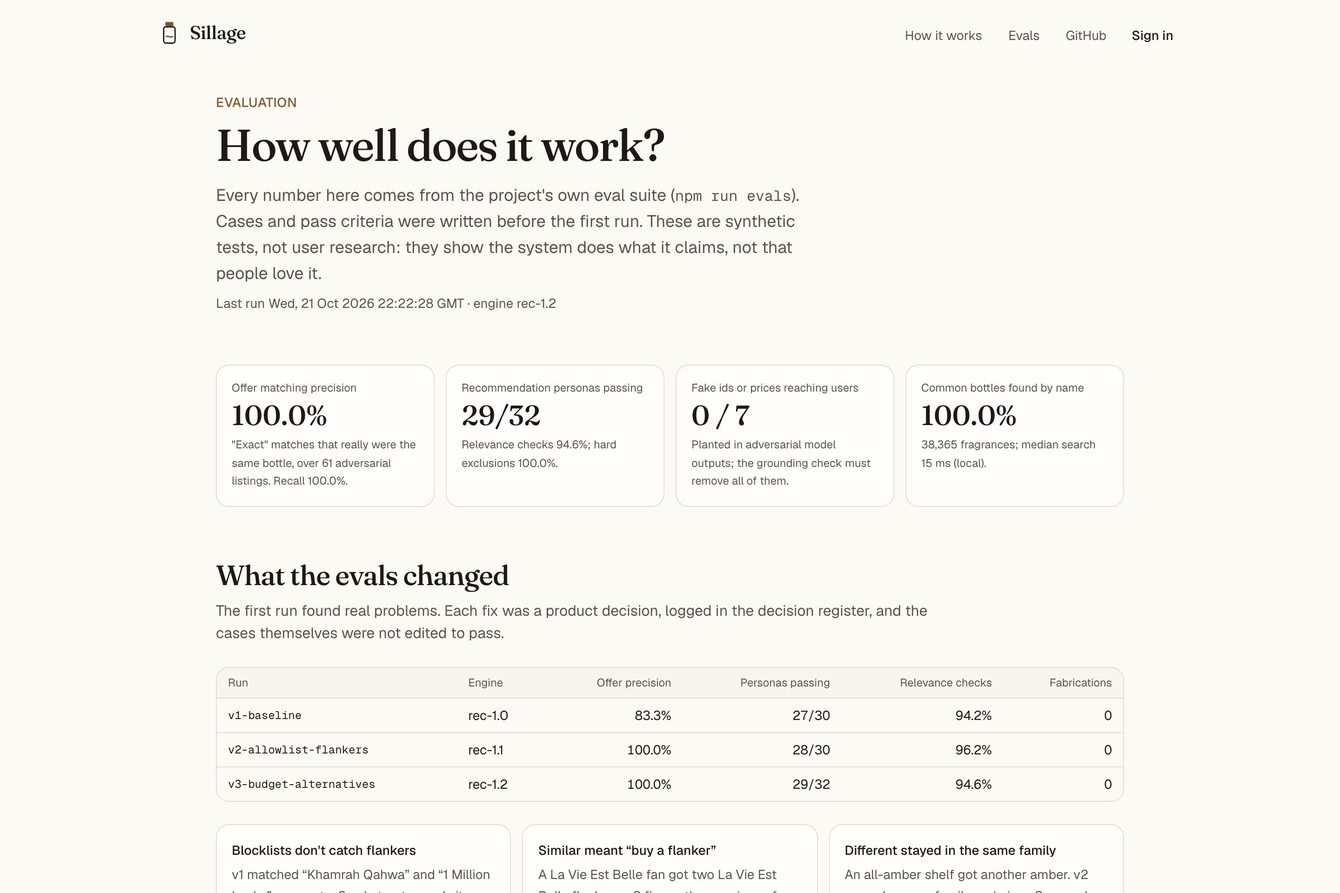
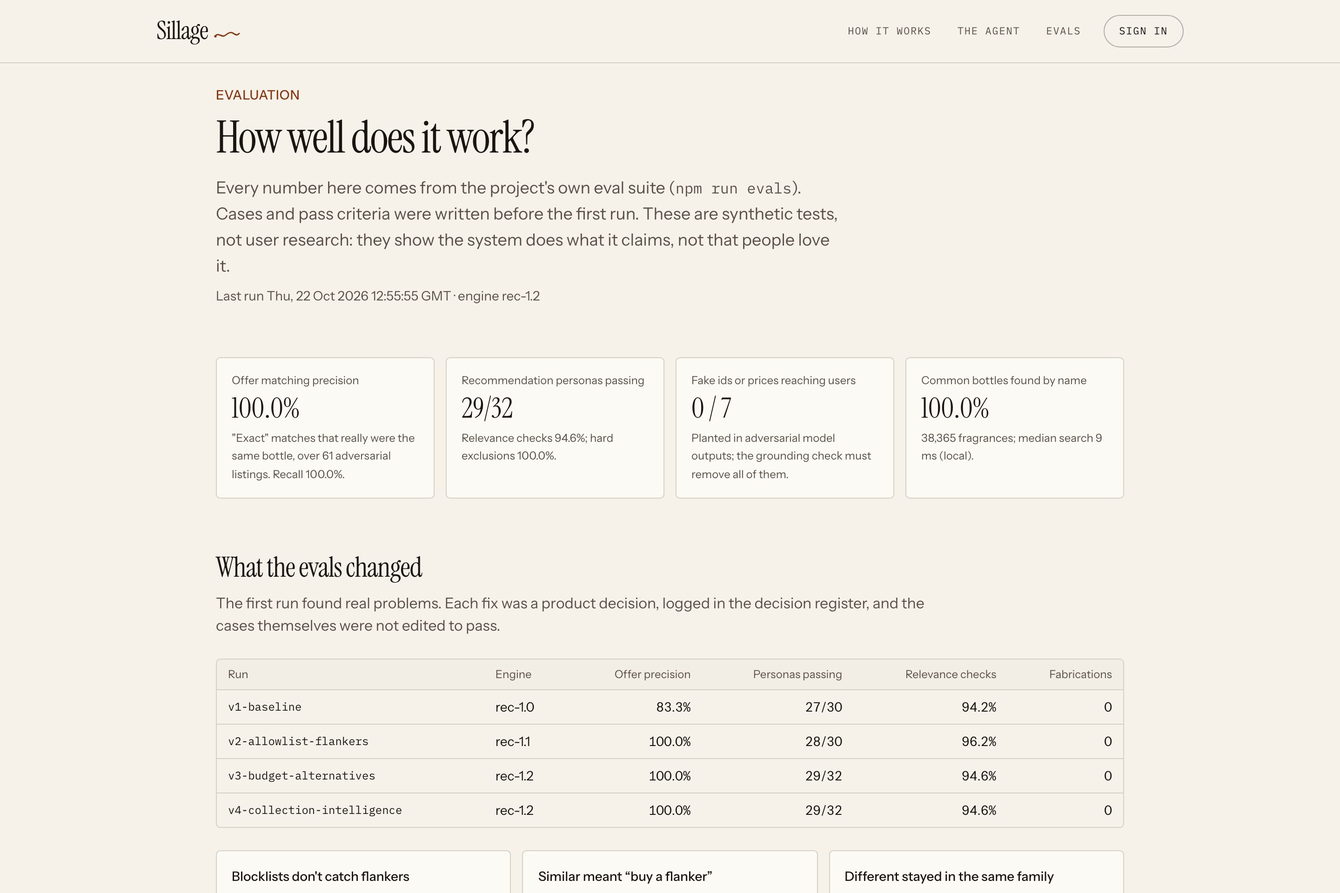
Docs for Collection Intelligence and the redesign; refreshed screenshots
README, case study, decisions DEC-34..45 (PRD 08 §16 resolved), traceability CS/DS/SL, build log, deploy notes.

diff --git a/app/page.tsx b/app/page.tsx
@@ -173,7 +173,7 @@ export default async function Home({ searchParams }: PageProps<"/">) {
                 <Perm title="Never" items={["Picks or ranks on its own", "Cites what no tool returned", "Quotes an unverified price", "Buys anything"]} />
               </dl>
               <p className="mt-6 text-sm text-ink-foreground/60">
-                One agent, eight typed tools, at most six steps per answer. No model configured? It falls back to a rule-based mode that uses the same engine and says so.{" "}
+                One agent, ten typed tools, at most six steps per answer. No model configured? It falls back to a rule-based mode that uses the same engine and says so.{" "}
                 <Link href="/how-it-works#advisor" className="underline underline-offset-4 hover:text-ink-foreground">
                   The full design
                 </Link>

diff --git a/README.md b/README.md
@@ -1,11 +1,11 @@
 # Sillage
 
-**Know your shelf. Find your next bottle.** A fragrance collection manager with a grounded AI advisor: it maps what you own, explains your taste, recommends what to try next with reasons and caveats, and checks prices for the exact bottle.
+**Know your shelf. Wear it better. Buy the next bottle for a reason.** A fragrance collection manager with a grounded AI agent: it maps what you own, scores how well the collection covers your life, picks what to wear today, predicts how two bottles might layer, recommends what to try next with reasons and caveats, and checks prices for the exact bottle.
 
 ### ▶ [Try the live demo](https://sillage-rosy.vercel.app)
-Click **"Try the live demo, no sign-up"** and you get a private sample collection: six bottles, a wishlist item and a saved preference. The walkthrough takes about two minutes, and the sandbox deletes itself after 24 hours.
+Click **"Open a sample shelf"** (no sign-up) and you get a private sample collection: six bottles, a wishlist item, a saved preference and two layering experiments. The walkthrough takes about two minutes, and the sandbox deletes itself after 24 hours.
 
-![Discover: ranked, explained recommendations](docs/images/discover.jpg)
+![The landing page: a live catalog search and a shelf of real bottles](docs/images/landing.jpg)
 
 ---
 
@@ -15,33 +15,61 @@ Collectors with a dozen bottles still buy the wrong next one: a fifth fresh blue
 
 Sillage's bet: **recommendations get far more relevant when they start from what you own and what you've said you like, and they're only trustworthy when every claim traces back to data.** That's a hypothesis, not a finding. I haven't interviewed users yet; the [case study](docs/product/CASE-STUDY.md) says so plainly.
 
+**The value, in one line per user moment:**
+
+| Moment | Without Sillage | With Sillage |
+|---|---|---|
+| "Should I buy this?" | Hype, a video review, a guess | The score impact on *your* shelf: what it adds, what it repeats |
+| "What do I wear today?" | The same bottle again | A ranked pick from bottles you own, for the occasion and the weather, with reasons |
+| "Would these two layer?" | Spray and hope | A labelled prediction from accord rules, then your own logged result |
+| "Where do I buy it?" | Five tabs, a tester posing as new | Exact-variant offers only, with what was hidden and why |
+
 ## What it does
 
 | | |
 |---|---|
-| **1. Your shelf, understood.** Add bottles from ~38,000 fragrances (typos are fine). The dashboard shows your family mix, which seasons and times of day you can cover, and your "signature" accords, weighted by how much you like each bottle. | **2. Three ways to discover.** *Similar* (more of what you love), *Different* (a new direction that still fits), *Fill gaps* (what your shelf is missing). Every pick shows why, what's uncertain, and a score breakdown. |
-| ![Dashboard](docs/images/dashboard.jpg) | ![Fragrance detail](docs/images/detail.jpg) |
-| **3. An advisor that can't make things up.** Ask in plain English. A Claude agent reads your collection, runs the same engine, and explains. Every answer shows its tool calls, cost and a grounding check. | **4. Prices for the exact bottle.** Pick concentration and size. Testers, flankers, wrong sizes and gift sets are rejected, and the page says what was hidden and why. |
+| **1. Your shelf, understood.** Add bottles from ~38,000 fragrances (typos are fine). The shelf shows your bottles, your family mix, which seasons and times of day you can cover, and your "signature" accords, weighted by how much you like each bottle. | **2. Collection Score.** A 0–100 score across five explained dimensions (season, occasion, versatility, diversity, redundancy) with strengths, gaps and a link to fix each gap. Missing data lowers confidence instead of being scored as zero. |
+| ![Shelf](docs/images/shelf.jpg) | ![Collection Score](docs/images/score.jpg) |
+| **3. "What would it change?"** Preview any fragrance against your shelf before buying: Now → With it, per-dimension deltas, and the bottle it overlaps most. A near-copy of something you own is flagged as a duplicate. | **4. Today.** Tell it the occasion, time of day and weather (or share local weather once, never stored). It ranks only bottles you own, explains the pick, and learns from "Wore this" and "Not for me", within bounds. |
+| ![Score simulator](docs/images/simulator.jpg) | ![Daily Scent Selector](docs/images/today.jpg) |
+| **5. Scent Lab.** Pair two bottles you own. Sillage predicts the blend's character, what might work and what might clash, from an editable accord ruleset. It's labelled experimental, never "high confidence", and your own logged wears nudge future predictions. | **6. Three ways to discover.** *Similar*, *Different*, *Fill gaps*. Every pick shows why, what's uncertain, and a score breakdown, plus a link to its score impact. |
+| ![Scent Lab](docs/images/lab.jpg) | ![Discover](docs/images/discover.jpg) |
+| **7. An advisor agent that can't make things up.** Ask in plain English. A Claude agent plans, calls Sillage's own tools, and explains. Every answer shows its tool calls, cost and a grounding check. | **8. Prices for the exact bottle.** Pick concentration and size. Testers, flankers, wrong sizes and gift sets are rejected, and the page says what was hidden and why. |
 | ![Advisor with trace](docs/images/advisor.jpg) | ![Variant-matched offers](docs/images/offers.jpg) |
 
-## The AI design (the part I'd talk about in an interview)
+## The agent (the part I'd talk about in an interview)
 
-- **Deterministic ranking, AI explanation.** A tested engine scores candidates on taste fit, the mode's goal, budget, season/time of day and performance, and emits reason codes and caveats. The model can't add candidates or change scores.
+![The agent walkthrough on the landing page](docs/images/landing-agent.jpg)
+
+**Why an agent at all.** Some questions take several dependent steps: "a woody winter scent under $150 that isn't like anything I own" means reading the shelf, choosing *Different* mode with a season and budget, running the engine, inspecting the best pick, maybe pricing it, then explaining. A single prompt can't do that reliably; a fixed pipeline can't handle the variety of questions. **Why only one agent.** The job has one actor and one context. Multi-agent orchestration would add cost, latency and failure modes without adding capability.
+
+**What it can do: 10 typed tools, split by permission.**
+
+| Reads (runs on its own) | Proposes (you confirm with a click) | Never |
+|---|---|---|
+| `get_user_profile`, `get_owned_fragrances`, `search_catalog`, `get_fragrance_details`, `recommend_candidates`, `find_offers`, `get_collection_score`, `pick_for_today` | `propose_add_to_wishlist`, `propose_preference_update` | Ranks on its own, cites what no tool returned, quotes an unverified price, buys anything, writes without a click |
+
+- **Deterministic ranking, AI explanation.** The engines (recommendations `rec-1.2`, score `score-1.0`, daily `daily-1.0`, lab `lab-1.0`) are pure, versioned and tested. The model can't add candidates or change scores.
 - **Output contract enforced in code.** The agent cites fragrances by id. Any id that didn't come from a tool in that turn, and any price not in a tool result, is stripped before you see it and counted in the trace.
-- **No silent writes.** Saving or changing preferences goes through "propose" tools that render a confirm button. Third-party text is labelled untrusted data.
-- **One agent, eight strict tools, bounded cost.** At most six tool rounds, low effort, prompt caching, per-user rate limits; per-answer tokens, latency and cost are visible.
-- **Fails safe.** Without a key, or on an error or decline, a rule-based mode answers with the same engine and says so.
+- **Bounded.** At most six tool rounds, low effort, prompt caching, per-user rate limits; per-answer tokens, latency and cost are visible.
+- **Narrow AI elsewhere.** Today's pick can be phrased by the model, but the phrasing is validated (must name the pick, no new numbers, no prices) or it falls back to a template, and the UI says which one you're reading.
+- **Fails safe.** Without a key, or on an error or decline, a rule-based mode answers with the same engines and says so.
+
+The full design (the loop, every tool, the guardrails and failure modes) is on the [How it works](https://sillage-rosy.vercel.app/how-it-works#advisor) page.
 
 ## Evals, and what they changed
 
 Cases and pass criteria were written **before** the first run ([report](docs/evals/REPORT.md), and a public `/evals` page in the app).
 
-| | v1 | v2 |
+| | v1 | v4 (latest) |
 |---|---|---|
 | Offer matching precision (61 adversarial listings) | 83.3% | **100%** (recall 100%) |
 | Recommendation personas passing | 27/30 | **29/32** (2 cases added for budget alternatives; exclusions 100%) |
 | Planted fake ids/prices reaching users | 0/7 | **0/7** |
 | Common bottles found by name | 20/20 | 20/20 |
+| Collection Intelligence checks (determinism, duplicates, owned-only picks, lab bounds) | n/a | **9/9** |
+
+The Collection Intelligence tests also caught real bugs before shipping: layering scores saturated at 100 for unrelated pairs (recalibrated; real pairs now spread 44–98), confidence stayed "high" when whole dimensions were missing, and tied seasons produced "strongest in fall; thinnest in fall". All are in the [build log](docs/evidence/BUILD-LOG.md).
 
 v1 matched "Khamrah *Qahwa*" as the same bottle as Khamrah, recommended flankers of bottles people already owned, and kept "Different" inside the same family. Each fix is a logged decision. The remaining failures (the engine prefers close alternatives from smaller houses over the famous names I annotated) became a product decision instead of a tuning exercise: users now choose whether to see **budget alternatives**, and they're always labelled with what they resemble.
 
@@ -50,27 +78,31 @@ v1 matched "Khamrah *Qahwa*" as the same bottle as Khamrah, recommended flankers
 | Document | What's in it |
 |---|---|
 | [Case study](docs/product/CASE-STUDY.md) | The problem, the bets, the trade-offs, what evals changed, what's unproven |
+| [Collection Intelligence PRD](docs/specs/08_Collection_Intelligence_PRD.md) · [Implementation plan](docs/INTELLIGENCE-PLAN.md) | Score, Today and Scent Lab: requirements, acceptance tests CS/DS/SL-01..07, the plan and the audit |
 | [PRD](docs/specs/01_Sillage_PRD.md) · [Architecture](docs/specs/02_Architecture_Data_Model.md) · [UX flows](docs/specs/03_UX_User_Flows.md) · [QA plan](docs/specs/04_QA_Traceability.md) | The spec pack the build was checked against |
-| [Decision register](docs/DECISIONS.md) | 33 decisions with the reason for each, and how the open questions were resolved |
+| [Decision register](docs/DECISIONS.md) | 45 decisions with the reason for each, and how the open questions were resolved |
 | [Traceability](docs/TRACEABILITY.md) | Every requirement → code → the tests that prove it |
 | [Eval report](docs/evals/REPORT.md) | Every case and result, regenerated by `npm run evals` |
 | [Build log](docs/evidence/BUILD-LOG.md) | What testing caught along the way |
 
 ## How it was built
 
-I worked as product owner with an AI coding agent (Claude Code) as the engineer, from a seven-document spec pack. I made the product calls (data sources under a zero-cost constraint, model, scope); the agent proposed defaults for the rest and logged every one. Each stage ended with evidence: tests run, numbers measured, bugs written down.
+I worked as product owner with an AI coding agent (Claude Code) as the engineer, from a seven-document spec pack, then a second PRD for Collection Intelligence. I made the product calls (data sources under a zero-cost constraint, model, scope); the agent proposed defaults for the rest and logged every one. Each stage ended with evidence: tests run, numbers measured, bugs written down.
 
 **Stack:** Next.js 16 (App Router) + TypeScript, Supabase (Postgres, Auth, row-level security), Claude API (tool use), Zod, Tailwind + shadcn/ui. Tested with Vitest, pgTAP and Playwright (+ axe).
 
 **Data:** ~38k fragrances with notes, accords and community votes from Fragrantica's public catalogue via the open [Decant dataset](https://codeberg.org/decant/pages) (downloaded at build, never committed; facts and aggregates only, every page links to its source); live fallback to [Open Beauty Facts](https://world.openbeautyfacts.org); optional live prices from Google Shopping via SerpApi. No images are licensed, so each fragrance is drawn as a "scent fingerprint" from its accords.
 
-**Quality at the time of writing:** 54 unit tests, 38 database security assertions, 11 end-to-end tests (desktop + mobile, WCAG 2.2 AA scan on 13 screens and states, keyboard-only flow), production build and a check that no server secret reaches the browser bundle.
+**Design:** an editorial look of its own (Instrument Serif, paper and ink, cognac accents, drawn bottles whose shape and tint come from each fragrance's name and accords), deliberately distinct from my other portfolio project. Weather comes from [Open-Meteo](https://open-meteo.com) (free, no key), opt-in, coordinates rounded and never stored.
+
+**Quality at the time of writing:** 83 unit tests, 60 database security assertions (row-level security on every new table), 14 end-to-end tests (desktop + mobile, WCAG 2.2 AA scan on every app screen including Today, Scent Lab, Score and Advisor, keyboard-only flow), production build and a check that no server secret reaches the browser bundle.
 
 ## Status and honest caveats
 
 - MVP portfolio project, deployed on Vercel + Supabase (free tiers). Not yet tested with real users.
 - Without an Anthropic key the advisor runs in offline rule-based mode; without a SerpApi key, prices are labelled samples from fictional stores.
-- Notes, seasons and longevity are community votes, shown as estimates. Price bands are brand-level estimates, always labelled.
+- Notes, seasons and longevity are community votes, shown as estimates. Occasion fit (office, formal, date) is *inferred* from accords and day/night votes and labelled that way; the score weights are a reasoned starting point, not industry-validated.
+- Scent Lab predictions are heuristics from an accord ruleset, labelled experimental. They are not chemistry and not an optimal ratio. Price bands are brand-level estimates, always labelled.
 - Not affiliated with Fragrantica or any retailer; no affiliate links.
 
 ## Running it locally

diff --git a/docs/product/CASE-STUDY.md b/docs/product/CASE-STUDY.md
@@ -1,6 +1,6 @@
 # Sillage: a case study
 
-*How I scoped and built an AI fragrance advisor that can't make things up, and how evals changed the product.*
+*How I scoped and built an AI fragrance advisor that can't make things up, how evals changed the product, and how a second PRD turned it from a buying tool into something you use every day.*
 
 ## The thesis
 
@@ -20,7 +20,7 @@ One rule from the PRD turned out to matter more than I expected: **ownership isn
 
 ## The decisions I'd talk through in an interview
 
-The [decision register](../DECISIONS.md) has 33 entries, including how each open question was resolved. These are the ones that shaped the product.
+The [decision register](../DECISIONS.md) has 45 entries, including how each open question was resolved. These are the ones that shaped the product.
 
 **1. Deterministic ranking, AI explanation (Decision B).** The obvious build was "LLM, recommend me a fragrance." I didn't do that. A tested engine scores every candidate on five components (taste fit, the mode's goal, budget, season and time of day, performance) and emits reason codes and caveats. The Claude agent's job is to call that engine and explain the result. *Trade-off:* less conversational flexibility, in exchange for answers that are reproducible, testable and explainable ("Why this rank" shows the score breakdown).
 
@@ -28,13 +28,29 @@ The [decision register](../DECISIONS.md) has 33 entries, including how each open
 
 **3. Writes need a human click.** The agent has two "propose" tools (wishlist, preference change) that save nothing. They return a confirm button. There's no write path for a prompt injection hidden in third-party text to trigger, and the review themes it reads are labelled untrusted in the tool output.
 
-**4. One agent, eight tools, and a fallback (D-004).** No multi-agent orchestration: this job doesn't need it, and one agent with typed tools is easier to test and cheaper to run. When there's no API key, or the model errors or declines, a rule-based mode answers with the same engine and says so. The public demo never breaks and costs nothing by default.
+**4. One agent, ten tools, and a fallback (D-004).** An agent earns its place because questions like "a woody winter scent under $150 that isn't like anything I own" take several dependent steps: read the shelf, pick a mode, run the engine, inspect the best pick, maybe price it. No multi-agent orchestration: there's one actor and one context, and one agent with typed tools is easier to test and cheaper to run. Eight tools read; two only propose. The agent can also read the Collection Score and ask for today's pick, so "how balanced is my collection?" and "what should I wear to the office tomorrow?" go through the same tested engines as the UI. When there's no API key, or the model errors or declines, a rule-based mode answers with the same engine and says so. The public demo never breaks and costs nothing by default.
 
 **5. Exact-variant price matching (Decision D).** A listing is an exact match only if brand, line, concentration and size agree and it's a new full bottle. Everything else is rejected or marked "needs verification", and the UI says what was hidden and why. Totals are compared only when every exact offer states shipping. Without a live key, offers are clearly labelled samples from fictional stores, with no links. Sillage never claims "cheapest anywhere."
 
 **6. Free, open data that actually works (Decision A).** The owner constraint was "free, and make sure it works." I evaluated the options: the only real fragrance API had a 20-request free tier; Fragrantica has no API and its terms forbid scraping. I used a published open dump of Fragrantica's catalogue (Decant), downloaded at build time and never committed, keeping only facts and aggregates and linking every page back to its source. That gives 38,365 fragrances with weighted notes, accords, ratings, longevity, season votes and community "smells like" links. Open Beauty Facts covers searches the dataset misses. The dataset has no prices, so the budget filter uses estimated price bands from a 395-brand tier map, always labelled as estimates.
 
 **7. A demo that's a sandbox, not a shared login (D-006).** "Try the demo" creates a private account with six bottles across distinct styles, a wishlist item and a preference ("avoids oud"), and deletes it after 24 hours.
+
+## Round two: from buying to using (PRD 08)
+
+The first version only helped at the moment of purchase, which happens a few times a year. Collectors open their shelf every morning. So the second PRD added three features aimed at daily use, each with written acceptance tests (CS/DS/SL-01..07) before any code:
+
+- **Collection Score**: a 0–100 score across season, occasion, versatility, diversity and redundancy, with strengths, gaps and a fix for each gap, plus a simulator that shows what a bottle would change *before* you buy it. This connects back to the original job: "don't make me buy something I effectively already have" now has a number and a reason.
+- **Today**: a ranked pick from bottles you own, for the occasion and the weather, that learns from "Wore this" and "Not for me" within bounds.
+- **Scent Lab**: predict how two owned bottles might layer, wear it, log what really happened.
+
+The hard part wasn't the maths; it was honesty about weak data. The catalog has no occasion data, so occasion fit is *inferred* and labelled that way (DEC-34). A dimension with no data drops out and makes confidence "low" instead of scoring zero (DEC-36); the first test run caught that it didn't. Layering is a heuristic from an editable accord ruleset, so it's called experimental and is never "high confidence" (DEC-41); the first calibration scored every pair 100 and was useless. Weather is manual-first, with opt-in local weather that stores nothing (DEC-39).
+
+AI is used narrowly here. The engines rank; the model may phrase today's explanation, but the phrasing is validated (must name the pick, no new numbers, no prices) or a template is used, and the UI says which you're reading.
+
+## A redesign, because it looked generated
+
+The owner's feedback on v1 was blunt: it looked AI-generated, and too close to my other project, Touchline. What I'd meant to share was the *pattern* (a no-sign-up demo next to sign-in), not the look. The redesign is editorial: a serif display face, paper and ink with cognac accents, drawn bottles that vary in shape and tint per fragrance, a live catalog search and a shelf of real top-voted bottles on the landing page, and an animated walkthrough of the agent's actual tool calls with real catalog values. The agent's permissions (reads, proposes, never) are on the landing page, the Advisor page and How it works, because "what can the AI do to my data?" is the first question a careful user asks.
 
 ## Evals changed the product
 
@@ -59,11 +75,11 @@ I worked as product owner with Claude Code as the engineer, from a seven-documen
 
 ## What's next
 
-1. **Five user interviews** with collectors who own 10+ bottles: does starting from the shelf actually change which suggestions they trust? Show them the clone-vs-famous results (open question Q-01).
+1. **Five user interviews** with collectors who own 10+ bottles: does starting from the shelf actually change which suggestions they trust? Do they agree with their Collection Score, and would they open Today in the morning? Show them the clone-vs-famous results.
 2. **Live agent eval** once an API key is configured: grounding rate, latency and cost per answer on 20 real prompts.
 3. **Real offer sample:** label 50 live SerpApi results to measure precision on messy real listings, not just synthetic ones.
-4. Instrument time-to-first-five-bottles and Discover → wishlist conversion.
+4. Use the `product_events` already logged (score viewed, preview run, daily pick worn, lab saved) to measure whether Today brings people back, and calibrate the score and lab weights against real ratings.
 
 ## Status
 
-An MVP portfolio project. Built and tested locally (54 unit tests, 38 database security assertions, 11 end-to-end tests including an automated WCAG 2.2 AA scan, and the eval suite). Live at [sillage-rosy.vercel.app](https://sillage-rosy.vercel.app) on free tiers; see the README for honest caveats.
+An MVP portfolio project. Built and tested (83 unit tests, 60 database security assertions, 14 end-to-end tests including an automated WCAG 2.2 AA scan, and the eval suite, v4). Live at [sillage-rosy.vercel.app](https://sillage-rosy.vercel.app) on free tiers; see the README for honest caveats.

diff --git a/docs/DECISIONS.md b/docs/DECISIONS.md
@@ -56,6 +56,18 @@ The spec pack says: when instructions conflict or are ambiguous, record the deci
 | DEC-31 | Review themes stay on the public site, attributed (resolves Q-04) | Owner decision |
 | DEC-32 | The near-duplicate diversity rule (≥ 95% accord similarity) applies within one brand only | So an original and its budget alternative can appear side by side; found by the Q-01 unit test |
 | DEC-33 | Hosted auth: email confirmation **on** for real accounts (demo sandboxes skip it); Supabase's default confirmation and reset emails are kept, because custom templates need a custom SMTP provider on the free tier. Site URL `https://sillage-rosy.vercel.app` | Same posture as Touchline; free-tier constraint (DEC-02) |
+| DEC-34 | **Occasion fit is inferred**, not sourced (resolves PRD 08 §16.2): office/formal/date/casual/special fit is derived from accord groups (fresh, warm, refined) and day/night votes, labelled "estimated" everywhere it appears, and the profile carries per-field provenance (`community` / `inferred`) and a completeness score | The catalog has no occasion data. Showing it as fact would break the "never invent data" rule |
+| DEC-35 | Intensity comes from community sillage/longevity votes; a bottle without them gets no intensity and that factor is renormalised away rather than guessed | Same rule: missing data lowers confidence, it is never scored as zero |
+| DEC-36 | Collection Score `score-1.0` weights: season .25, occasion .25, versatility .20, diversity .15, non-redundancy .15. Unavailable dimensions drop out and the rest renormalise; any unavailable dimension makes overall confidence "low"; collections under 3 are provisional and never get strengths or gaps from provisional dimensions (resolves §16.5) | A reasoned starting point, shown in the UI as such ("How this score works"), validated with qualitative tests, not claimed as industry scoring |
+| DEC-37 | No score cache: the score is computed per request from the shelf (≈ms for 50 bottles). Preview is read-only and never writes | Simpler and always consistent; revisit above ~500 bottles |
+| DEC-38 | Wear history did not exist (resolves §16.1) → `wear_logs` added, written by "Wore this" with an idempotency key `daily:{request}:{fragrance}`, so a double click logs once | The selector's rotation and feedback factors need it |
+| DEC-39 | Weather is **manual-first**; "Use my local weather" is opt-in, uses Open-Meteo (free, no key), rounds coordinates to 1 decimal and stores neither location nor weather (resolves §16.3) | Location permission must stay optional; no paid API |
+| DEC-40 | Daily feedback adjusts only that user's future picks, bounded (−0.3…+0.1 per bottle; "too strong/weak" shifts intensity up to 0.3). The model may phrase the explanation but is validated (must name the pick, no new digits, no prices, ≤ 600 chars) or a template is used, and the UI labels which | Feedback must not swing picks wildly; AI wording must not add facts |
+| DEC-41 | Scent Lab `lab-1.0`: complementarity .35, clash-inverse .25, intensity balance .20, family balance .10, preference .10, from an editable `RULESET` with provenance per rule. Complementarity calibrated as `100·(1−e^(−c/1.6)) + min(12, 6·shared)`; confidence is never "high"; past ratings personalise by at most ±10; no ratio is called optimal | First calibration saturated at 100 for unrelated pairs; predictions must read as experiments, not facts |
+| DEC-42 | Layering experiments and their feedback are visible only to their owner (resolves §16.6); predictions are recomputed server-side on save, never trusted from the client | RLS on every new table; pgTAP covers it |
+| DEC-43 | Demo persistence uses the existing disposable sandbox (resolves §16.4): the seeded shelf adds two layering experiments, one with a logged result, and everything deletes after 24 h | Visitors see a lived-in Lab without a shared account |
+| DEC-44 | Product analytics: `product_events` is insert-only with a name allowlist and a property allowlist (≤ 1 kB, no free text, no location) | PRD 08 §11 events without collecting personal data |
+| DEC-45 | **Editorial redesign, distinct from Touchline** (owner feedback "looks too AI generated"): serif display type, paper/ink/cognac palette, drawn bottles that vary in shape by name, a live catalog search and a real shelf on the landing page, no left rail, a split sign-in screen. What is shared with Touchline is the *pattern*: demo and sign-in without sign-up. The advisor gains `get_collection_score` and `pick_for_today` (10 tools); Discover now runs on load | Owner asked for the two projects to look unique; the agent story needed to be visible, not buried |
 | DEC-29 | Email confirmation is off locally; when sign-up returns a session the user goes straight to onboarding. Hosted setting: see Q-02 | Keeps E2E deterministic without Mailpit |
 
 ## Open (owner input needed)
@@ -66,10 +78,12 @@ The spec pack says: when instructions conflict or are ambiguous, record the deci
 | Q-02 | Deploy (public GitHub repo, hosted Supabase, Vercel) | **Done** 21 Oct 2026 → DEC-33 |
 | Q-03 | Live advisor and live prices | **Approved**: owner adds `ANTHROPIC_API_KEY` and `SERPAPI_API_KEY` in Vercel |
 | Q-04 | Review themes on a public site | **Resolved** → DEC-31 |
+| PRD 08 §16 | Wear history, metadata reliability, weather, demo persistence, weights, lab visibility | **Resolved** → DEC-38, DEC-34/35, DEC-39, DEC-43, DEC-36, DEC-42 |
 
 ## Change log
 
 | Date | Change |
 |---|---|
+| 22 Oct 2026 | Collection Intelligence (PRD 08) and redesign: DEC-34 to DEC-45; PRD 08 §16 resolved |
 | 21 Oct 2026 | Owner answers: Q-01 → DEC-30, Q-04 → DEC-31, Q-02/Q-03 approved. DEC-32 added |
 | 21 Oct 2026 | Register created. DEC-01 to DEC-29; Q-01 to Q-04 |

diff --git a/docs/TRACEABILITY.md b/docs/TRACEABILITY.md
@@ -43,15 +43,42 @@ Every P0/P1 requirement in the [PRD](specs/01_Sillage_PRD.md) and test ID in the
 | E2E-02 | New account, five adds, dislikes oud, Different, wishlist persists | `tests/e2e/journey.spec.ts` | Pass |
 | E2E-03 | Catalog and offer/AI failures still allow navigation | `tests/e2e/degraded.spec.ts` | Pass (offer failure covered by sample fallback + U) |
 | DEMO-01..03 | No-login walkthrough, public docs | E2E-01 timing, `/how-it-works`, `/evals`, README | Pass |
-| A11Y | WCAG 2.2 AA (serious/critical) on 13 screens and states; keyboard-only flow; mobile no-overflow | `tests/e2e/a11y.spec.ts`, `mobile.spec.ts` | Pass |
+| A11Y | WCAG 2.2 AA (serious/critical) on every app screen, including Today, Scent Lab, Score and Advisor; keyboard-only flow; mobile no-overflow | `tests/e2e/a11y.spec.ts`, `mobile.spec.ts` | Pass |
+
+## Collection Intelligence (PRD 08)
+
+| ID | Acceptance test | Implementation | Evidence |
+|---|---|---|---|
+| CS-01 | 0 bottles: helpful empty state, no fabricated score | `lib/intelligence/score.ts` `collectionScore` | U CS-01 |
+| CS-02 | Same set and version → identical score | `score.ts` (`score-1.0`) | U CS-02; EV §5 |
+| CS-03 | Dimensions 0–100; weights renormalise for missing dimensions | `score.ts` `appliedWeight` | U CS-03 |
+| CS-04 | Exact duplicate doesn't raise the score | `score.ts` dedupe by id + canonical key | U CS-04; EV §5 |
+| CS-05 | Preview doesn't mutate the shelf; changes recompute | `previewCandidate`, `POST /api/intelligence/collection-score/preview`, `components/intelligence/score-simulator.tsx` | U CS-05; E2E `intelligence.spec` CS-05 |
+| CS-06 | Strengths, gaps, methodology, completeness, version | `score.ts`, Shelf `ScorePanel` | U CS-06 |
+| CS-07 | Demo visitor sees a seeded score and previews a bottle without sign-up | `app/(app)/app/page.tsx`, `/app/score`, `lib/demo/provision.ts` | E2E CS-07 |
+| DS-01 | Only owned bottles; avoid list honoured | `lib/intelligence/daily.ts` `dailyPick` | U DS-01; E2E DS-01..05; EV §5 |
+| DS-02 | Manual weather works without location or network | `daily.ts`, `components/intelligence/daily-selector.tsx`, `lib/intelligence/weather.ts` (opt-in) | U DS-02; E2E DS-01..05 |
+| DS-03 | Occasion or intensity re-ranks without reload | `daily-selector.tsx` (debounced autorun) | U DS-03; E2E DS-01..05 |
+| DS-04 | Top 3 unique, each with 2+ grounded factors | `daily.ts` | U DS-04 |
+| DS-05 | Feedback scoped to the user/demo; writes idempotent | `service.ts` `dailyFeedback`, `wear_logs` idempotency key, RLS | DB `002_intelligence_rls`; U feedback bounds; E2E DS-01..05 |
+| DS-06 | Empty or all-excluded → helpful state, no invented picks | `daily.ts` | U DS-06 |
+| DS-07 | Factor breakdown and low-confidence indicators visible | `daily.ts` renormalisation, `daily-selector.tsx` `TopPick` | U DS-07; a11y |
+| SL-01 | Only owned bottles; not the same bottle twice | `lib/intelligence/lab.ts`, `service.ts` `predict` (`not_owned`), DB a≠b check | U SL-01; E2E SL-01..05 |
+| SL-02 | A/B and B/A share one identity; order stored separately | `lab.ts` `pairKey` | U SL-02; EV §5 |
+| SL-03 | Uncertain claims labelled; component rationale and confidence shown | `lab.ts` `RULESET`, `components/intelligence/scent-lab.tsx` | U SL-03; E2E SL-01..05 |
+| SL-04 | Saved pairs survive reload; demos follow the sandbox model | `/api/scent-lab/experiments`, `layering_experiments` | E2E SL-01..05 |
+| SL-05 | Logging a result doesn't change the stored prediction | `/api/scent-lab/experiments/[id]/feedback`, `layering_feedback` | E2E SL-01..05; DB |
+| SL-06 | Feedback personalises in a bounded, testable way (±10) | `lab.ts` | U SL-06 |
+| SL-07 | Missing accords → honest "insufficient information" | `lab.ts` | U SL-07 |
+| Agent | Advisor can read score and today's pick | `lib/agent/tools.ts` `get_collection_score`, `pick_for_today` | U advisor tools + offline intents |
 
 ## Release gates (QA doc)
 
 | Gate | Status |
 |---|---|
 | A: types, build, lint | Pass (`npm run check`) |
-| B: deterministic scoring and variant tests | Pass (52 unit tests) |
-| C: authenticated access and RLS | Pass (38 pgTAP assertions) |
-| D: demo walkthrough public without sign-up | Pass locally; public URL pending deploy (Q-02) |
+| B: deterministic scoring and variant tests | Pass (83 unit tests) |
+| C: authenticated access and RLS | Pass (60 pgTAP assertions) |
+| D: demo walkthrough public without sign-up | Pass locally and on https://sillage-rosy.vercel.app |
 | E: shipping and size caveats render | Pass (E2E-01, SHOP-05) |
 | F: docs and limitations match shipping features | This file, README "Status and honest caveats" |

diff --git a/docs/evidence/BUILD-LOG.md b/docs/evidence/BUILD-LOG.md
@@ -35,3 +35,13 @@ What was built, in order, and what testing caught along the way. Dates are 21 Oc
 - pgTAP: 38/38 on first run.
 - E2E first run: 8/12. Fixes: two locator bugs in tests; one test assumed a $10 budget empties results (by design, unknown-price items stay, flagged), replaced with a component test; **two real WCAG contrast failures**: the primary button's hover state faded to 3.7:1 → darken instead of fade.
 - Final: 52 unit, 38 database, 11 E2E (desktop + mobile, WCAG 2.2 AA scan on 13 screens/states, keyboard-only flow), production build, SEC-03 bundle check.
+
+## 7. Collection Intelligence (PRD 08) and redesign, 22 Oct 2026
+- M0 audit first ([plan](../INTELLIGENCE-PLAN.md)): no wear history, no occasion data, no weather source → DEC-34, DEC-38, DEC-39.
+- CS-03 failed on first run: with season and occasion unavailable, overall confidence was still "high" → any unavailable dimension now means low confidence.
+- Ties produced "strongest in fall; thinnest in fall" → tie wording ("Every season has a well-suited bottle.").
+- Scent Lab saturated: Sauvage + Tobacco Vanille scored 100 → complementarity recalibrated (DEC-41); real pairs now spread 44–98.
+- DS-02 test was over-specific (a casual daytime pick in cold weather legitimately isn't the amber) → the test now checks that context changes the pick, not which bottle wins.
+- E2E: three contrast failures on the new editorial styles (white/45, muted numerals) → raised; invalid `<dl>` children in the Lab; the shelf overflowed on a 390 px phone (bottle row 507 px) → responsive bottle sizes and `min-w-0` on the main column.
+- Lint caught `setState` inside effects in the agent walkthrough → moved into timer callbacks.
+- Final: 83 unit, 60 database, 14 E2E, evals v4 (Collection Intelligence 9/9, offers 100%, personas 29/32, fabrications 0/7).

diff --git a/CLAUDE.md b/CLAUDE.md
@@ -4,6 +4,6 @@ Portfolio product: fragrance collection, deterministic recommendations, grounded
 
 - Next.js 16 App Router (read `node_modules/next/dist/docs/` before using unfamiliar APIs), Supabase with RLS, Zod at every boundary.
 - Never invent catalog data, prices, retailer coverage or metrics. Sample data is always labelled.
-- Ranking lives in `lib/recommendation/engine.ts` (pure, tested). The advisor (`lib/agent/`) may explain results but never ranks or writes.
-- After changing the engine or matcher: `npm test` and `npm run evals`; don't edit eval cases to make them pass.
+- Ranking lives in `lib/recommendation/engine.ts`; Score, Today and Scent Lab in `lib/intelligence/` (pure, versioned, tested). The advisor (`lib/agent/`) may explain results but never ranks or writes.
+- After changing an engine, its weights or the matcher: `npm test` and `npm run evals`; don't edit eval cases to make them pass.
 - Before calling work done: `npm run check`, `npm run test:db`, `npm run test:e2e`.

diff --git a/docs/DEPLOY.md b/docs/DEPLOY.md
@@ -11,3 +11,5 @@ Redeploy: `npx vercel deploy --prod`. Hosted Supabase settings are copied into V
 5. **Verify**: `/api/health` shows `database: true` and which integrations are live; run the demo end to end on a phone.
 
 Smoke-test a deployment: `BASE_URL=https://sillage-rosy.vercel.app npx playwright test tests/e2e/demo.spec.ts -g "E2E-01|FR-07"` (2 demo sandboxes; the live demo allows 5 per visitor per hour). Passed on 21 Oct 2026.
+
+Collection Intelligence (22 Oct 2026) adds migration `20261022100000_collection_intelligence.sql`: run `npx supabase db push` before deploying the app. No new environment variables (Open-Meteo needs no key).
